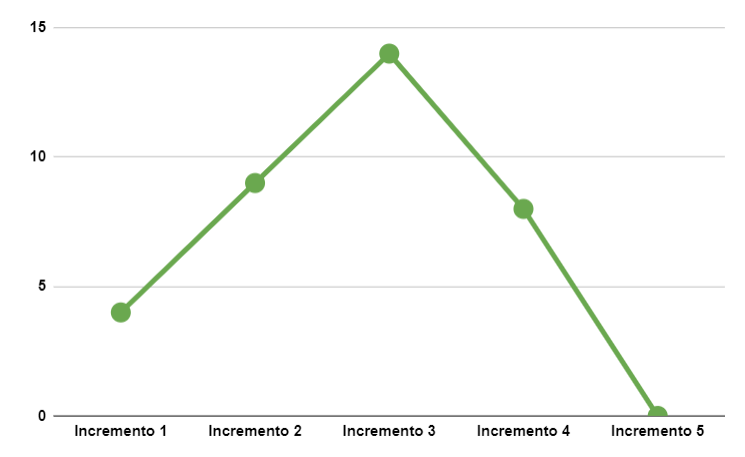
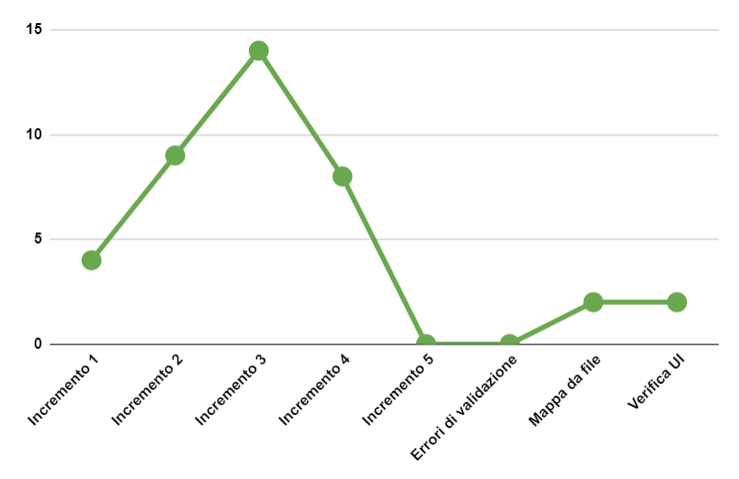
manca gulpease

diff --git a/esterni/piano_di_qualifica/res/sez_A_resoconto_verifica.tex b/esterni/piano_di_qualifica/res/sez_A_resoconto_verifica.tex
@@ -22,22 +22,26 @@
 	\caption{Esiti verifiche automatizzate - Revisione di Qualifica}
 \end{table}
 
-\noindent Con i seguenti grafici, illustriamo l'andamento dell'indice di gulpease e degli errori ortografici riscontrati per ogni documento, nelle revisioni effettuate:
+\subsection{MD01 - Indice di Gulpease}
+
 \begin{figure}[H]
 	\centering
 	\includegraphics[width=12cm]{images/gulpease.png}
 	\caption{Indice di gulpease per revisione}
 \end{figure}
+
+\subsection{MD02 - Correttezza ortografica}
 \begin{figure}[H]
 	\centering
 	\includegraphics[width=9cm]{images/err_ortografici.png}
 	\caption{Errori ortografici per revisione}
 \end{figure}
+\newpage
 
 \subsection{Qualità di processo}
 
 \subsubsection{MP01 - Schedule Variance}
-A causa dei rischi incontrati, il gruppo risulta in ritardo rispetto alla schedulazione delle attività di progetto pianificate.
+
 \begin{figure}[H]
 	\centering
 	\includegraphics[width=11cm]{images/schedule_variance.png}
@@ -53,16 +57,17 @@ A causa dei rischi incontrati, il gruppo risulta in ritardo rispetto alla schedu
 \end{figure}
 
 \subsubsection{MP03 - Budget Variance}
-La seguente metrica verrà tracciata per verificare se alla data corrente si è speso di più o di meno rispetto a quanto previsto.
-Se è $>$ 0 significa che il progetto sta spendendo il proprio budget con minor velocità di quanto pianificato, viceversa se negativo.
+
 \begin{figure}[H]
 	\centering
 	\includegraphics[width=11cm]{images/budget_variance.png}
 	\caption{Andamento metrica Budget Variance}
 \end{figure}
 
+
+
 \subsubsection{MP04 - Unbudgeted Risks}
-Data la possibilità di incontrare rischi, non preventivati in fase di analisi, di seguito verranno illustrate tali evenienze per ogni revisione del progetto:
+
 \begin{figure}[H]
 	\centering
 	\includegraphics[width=11cm]{images/unbudgeted_risks.png}
@@ -106,9 +111,8 @@ Data la possibilità di incontrare rischi, non preventivati in fase di analisi, 
 	\includegraphics[width=10cm]{images/metricheUI/code_smells.png}
 	\caption{Andamento metrica Code Smells componente UI}
 \end{figure}
-
+\newpage
 \subsubsection{MS04 - Debito Tecnico}
-Tempo in ore (h) necessario per risolvere tutti i Code Smells.
 \begin{figure}[H]
 	\centering
 	\includegraphics[width=10cm]{images/metricheServer/debito_tecnico.png}
@@ -118,18 +122,11 @@ Tempo in ore (h) necessario per risolvere tutti i Code Smells.
 	\centering
 	\includegraphics[width=10cm]{images/metricheUI/debito_tecnico.png}
 	\caption{Andamento metrica Debito Tecnico componente UI}
+	
 \end{figure}
 
-\subsubsection{MS05 - Code Coverage}
-Valore in percentuale della copertura dei test.
-\begin{figure}[H]
-	\centering
-	\includegraphics[width=10cm]{images/metricheServer/code_coverage.png}
-	\caption{Andamento metrica Code Coverage componente server}
-\end{figure}
+\subsubsection{MS05 - Complessità Ciclomatica}
 
-\subsubsection{MS06 - Complessità Ciclomatica}
-Somma delle complessità di tutti i metodi.
 \begin{figure}[H]
 	\centering
 	\includegraphics[width=10cm]{images/metricheServer/complessità_ciclomatica.png}
@@ -141,9 +138,40 @@ Somma delle complessità di tutti i metodi.
 	\caption{Andamento metrica Debito Tecnico componente UI}
 \end{figure}
 
-\subsubsection{MS07/MS08/MS09 - Requisiti Soddisfatti}
+\subsubsection{MS06/MS07/MS08 - Requisiti Soddisfatti}
 \begin{figure}[H]
 	\centering
 	\includegraphics[width=11cm]{images/requisiti_soddisfatti.png}
 	\caption{Andamento metrica Requisiti Soddisfatti}
+\end{figure}
+
+\subsubsection{MT01 - Code Coverage}
+
+\begin{figure}[H]
+	\centering
+	\includegraphics[width=10cm]{images/metricheServer/code_coverage.png}
+	\caption{Andamento metrica Code Coverage componente server}
+\end{figure}
+
+
+\subsection{MT02 - Test di sistema implementati e superati}
+\begin{figure}[H]
+	\centering
+	\includegraphics[width=11cm]{images/test/test_sistema.png}
+	\caption{Test di sistema implementati e superati}
+\end{figure}
+
+
+\subsection{MT03 - Test di integrazione implementati e superati}
+\begin{figure}[H]
+	\centering
+	\includegraphics[width=11cm]{images/test/test_integrazione.png}
+	\caption{Test di integrazione implementati e superati}
+\end{figure}
+
+\subsection{MT04 - Test di unità implementati e superati}
+\begin{figure}[H]
+	\centering
+	\includegraphics[width=11cm]{images/test/test_unità.png}
+	\caption{Test di unità implementati e superati}
 \end{figure}

diff --git a/esterni/piano_di_qualifica/res/sez3_qualita_prodotto.tex b/esterni/piano_di_qualifica/res/sez3_qualita_prodotto.tex
@@ -40,11 +40,14 @@ Le seguenti metriche sono state scelte al fine di garantire affidabilità, sicur
                 MS02        & Vulnerabilità           & 0                           & 0\\
                 MS03        & Code Smells             & 25                          & 5\\
                 MS04        & Debito Tecnico          & h 24                        & h 0,5\\
-                MS05        & Code Coverage           & 60\%                        & 80\%\\
-                MS06        & Complessità Ciclomatica & 600                         & 400\\
-                MS07        & Requisiti Obbligatori Soddisfatti & 100\%             & 100\%\\
-                MS08        & Requisiti Desiderabili Soddisfatti & 0\%              & 70\%\\
-                MS09        & Requisiti Opzionali Soddisfatti & 0\%                 & 20\%\\
+              MS05        & Complessità Ciclomatica &
+               600                         & 400\\
+               MS06        & Requisiti Obbligatori Soddisfatti & 100\%             & 100\%\\
+               MS07        & Requisiti Desiderabili Soddisfatti & 0\%              & 70\%\\
+               MS08        & Requisiti Opzionali Soddisfatti & 0\%                 & 20\%\\
+                MT01        & Code Coverage           & 60\%                        & 80\%\\
+              
+                
             \end{tabular}
             \caption{Metriche qualità del prodotto software}
         \end{center}

diff --git a/esterni/piano_di_qualifica/main.tex b/esterni/piano_di_qualifica/main.tex
@@ -13,11 +13,11 @@
 
 \setTitle{Piano di Qualifica}
 
-\setVersione{3.0.0}
+\setVersione{4.0.0}
 
-\setDate{17-07-2021}
+\setDate{22-08-2021}
 
-\setResponsabile{Alessandro Chimetto}
+\setResponsabile{Valton Tahiraj}
 
 \setRedattori{
     Alessandro Chimetto\\&
@@ -39,6 +39,8 @@
 \setUso{Esterno}
 
 \setModifiche{
+	4.0.0 & Valton Tahiraj & Responsabile & 22-08-2021 & Approvazione documento\\
+	3.1.0 & Lucia Fenu,   Paolo Scanferlato & Amministratore, Verificatore & 22-08-2021 & Aggiornamento resoconto di verifica\\
     3.0.0 & Alessandro Chimetto & Responsabile & 17-07-2021 & Approvazione documento\\
 	2.2.0 & Giacomo Bulbarelli, Valton Tahiraj & Amministratore, Verificatore & 15-07-2021 & Aggiornamento resoconto di verifica\\
 	2.0.0 & Alessandro Dindinelli, Alessandro Chimetto & Amministratore, Verificatore & 11-05-2021 & Rimossi test dei requisiti di prestazione \\
